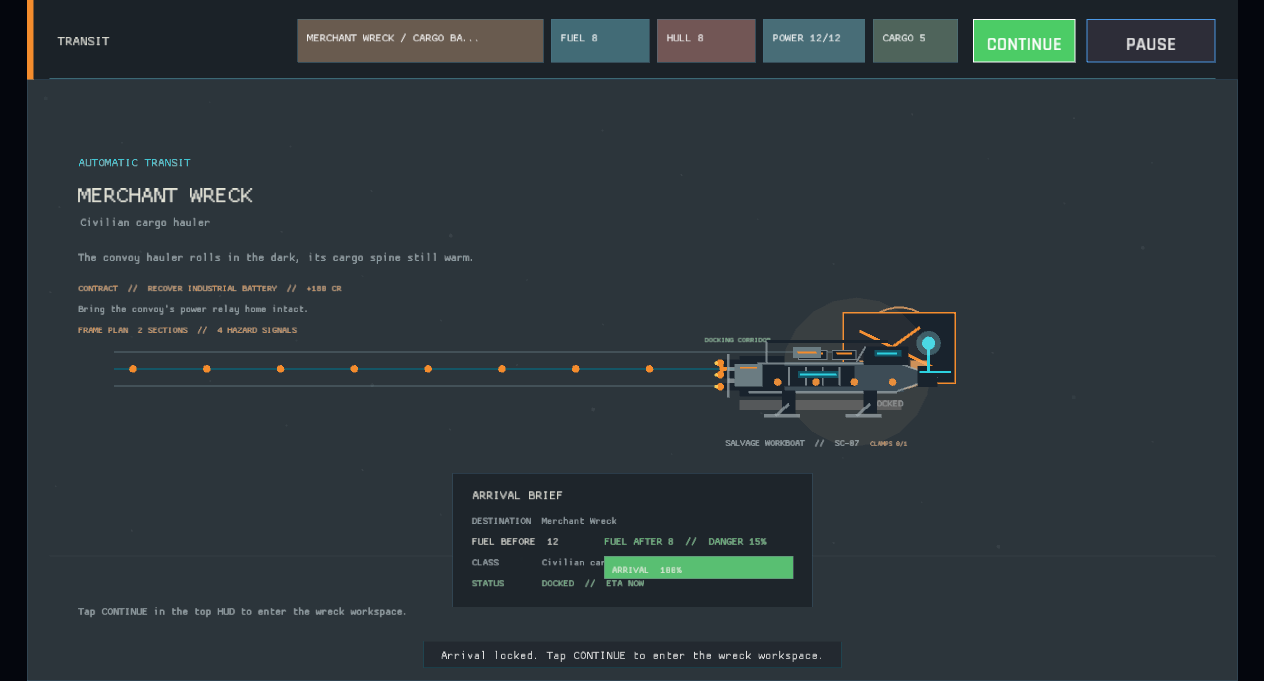
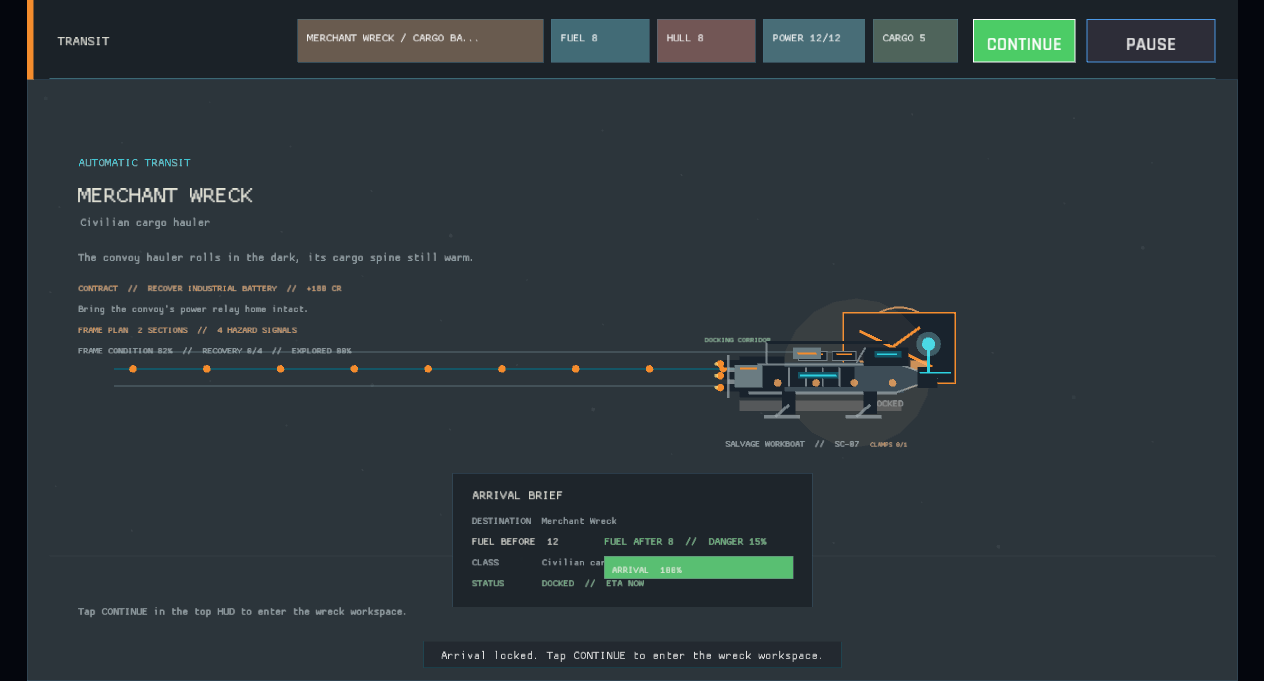
The route shows what the wreck has left for the captain (transit recovery brief, GDD 6.3)
Transit presented the authored frame plan and hazards but hid saved progress until the workspace opened. The route briefing now carries the current frame condition, recovered target count, and explored-frame percentage into the departure decision.

diff --git a/src/ui/travel.rs b/src/ui/travel.rs
@@ -117,6 +117,29 @@ pub fn draw_travel(ctx: &UiContext<'_>, _actions: &mut Vec<UiAction>) {
         12.0,
         visual_theme::site_accent(&site.visual_theme),
     );
+    let frame_condition = ctx
+        .session
+        .site_progress
+        .get(&site.id)
+        .map_or(site.condition, |progress| progress.condition);
+    let recovery = ctx.session.site_recovery_status(&site.id, ctx.data);
+    draw_text(
+        format!(
+            "FRAME CONDITION {:02}%  //  RECOVERY {}/{}  //  EXPLORED {:02}%",
+            frame_condition,
+            recovery.recovered_targets,
+            recovery.total_targets,
+            recovery.exploration_percent
+        ),
+        54.0,
+        374.0,
+        12.0,
+        if recovery.recovered_targets > 0 {
+            visual_theme::amber()
+        } else {
+            visual_theme::text_dim()
+        },
+    );
     let phase = travel_phase(progress);
     draw_transit_route(
         progress,
